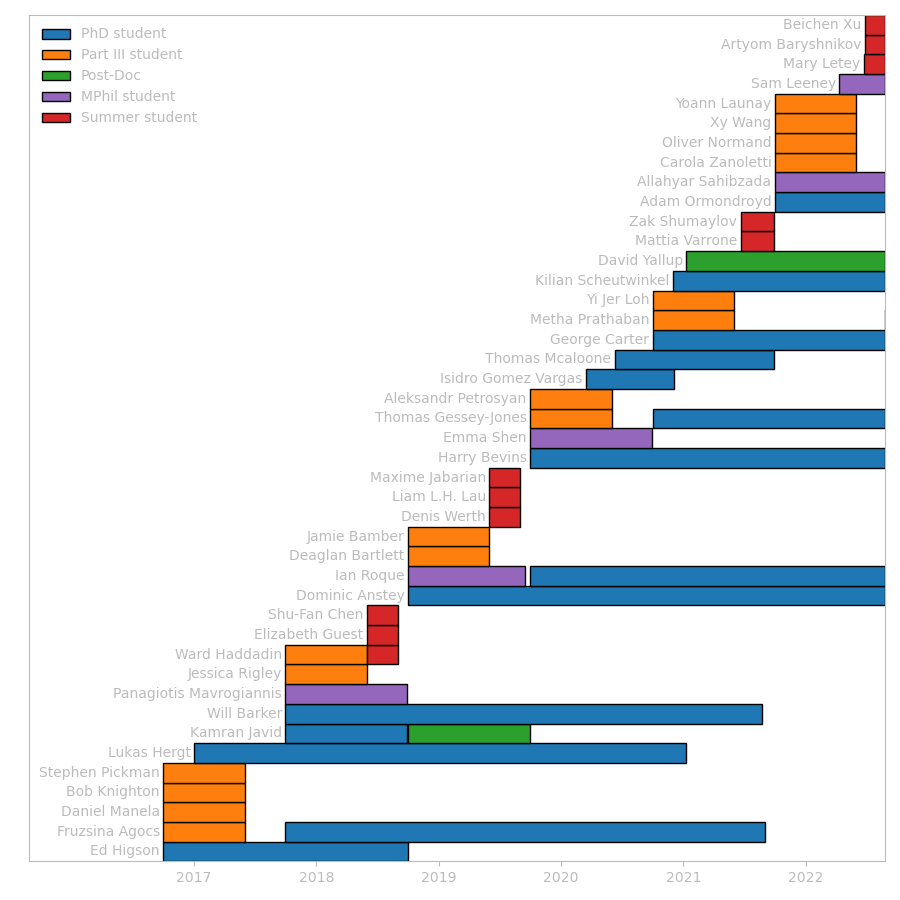
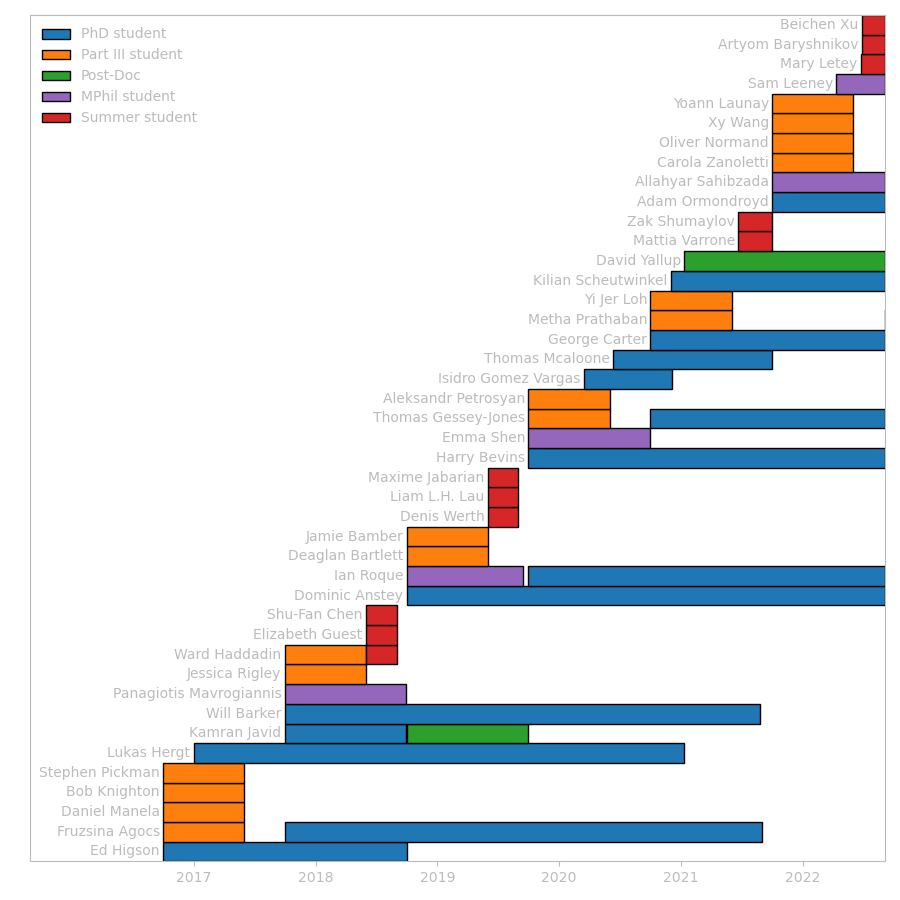
Resized pictures

diff --git a/assets/students/students.html b/assets/students/students.html
@@ -186,7 +186,7 @@
       </p>
     </div>
     <div class="grid-item">
-      <img src="/assets/students/images/originals/ian_roque.png" />
+      <img src="/assets/students/images/ian_roque.jpg" />
     </div>
     <div class="grid-item">
       <p>
@@ -230,7 +230,7 @@
   <h1>MPhil students</h1>
   <div class="grid">
     <div class="grid-item">
-      <img src="/assets/students/images/originals/sam_leeney.jpeg" />
+      <img src="/assets/students/images/sam_leeney.jpg" />
     </div>
     <div class="grid-item">
       <p>
@@ -252,7 +252,7 @@
       </p>
     </div>
     <div class="grid-item">
-      <img src="/assets/students/images/originals/allahyar_sahibzada.jpeg" />
+      <img src="/assets/students/images/allahyar_sahibzada.jpg" />
     </div>
     <div class="grid-item">
       <p>
@@ -484,7 +484,7 @@
       </p>
     </div>
     <div class="grid-item">
-      <img src="/assets/students/images/originals/ed_higson.jpg" />
+      <img src="/assets/students/images/ed_higson.jpg" />
     </div>
     <div class="grid-item">
       <p>
@@ -516,7 +516,7 @@
   <h1>Past MPhil students</h1>
   <div class="grid">
     <div class="grid-item">
-      <img src="/assets/students/images/originals/emma_shen.jpg" />
+      <img src="/assets/students/images/emma_shen.jpg" />
     </div>
     <div class="grid-item">
       <p>
@@ -536,7 +536,7 @@
       </p>
     </div>
     <div class="grid-item">
-      <img src="/assets/students/images/originals/panagiotis_mavrogiannis.jpg" />
+      <img src="/assets/students/images/panagiotis_mavrogiannis.jpg" />
     </div>
     <div class="grid-item">
       <p>
@@ -558,7 +558,7 @@
   <h1>Past Part III students</h1>
   <div class="grid">
     <div class="grid-item">
-      <img src="/assets/students/images/originals/carola_zanoletti.jpg" />
+      <img src="/assets/students/images/carola_zanoletti.jpg" />
     </div>
     <div class="grid-item">
       <p>
@@ -745,7 +745,7 @@
       </p>
     </div>
     <div class="grid-item">
-      <img src="/assets/students/images/originals/ward_haddadin.jpg" />
+      <img src="/assets/students/images/ward_haddadin.jpg" />
     </div>
     <div class="grid-item">
       <p>
@@ -766,7 +766,7 @@
       </p>
     </div>
     <div class="grid-item">
-      <img src="/assets/students/images/originals/daniel_manela.png" />
+      <img src="/assets/students/images/daniel_manela.jpg" />
     </div>
     <div class="grid-item">
       <p>
@@ -791,7 +791,7 @@
       </p>
     </div>
     <div class="grid-item">
-      <img src="/assets/students/images/originals/bob_knighton.JPG" />
+      <img src="/assets/students/images/bob_knighton.jpg" />
     </div>
     <div class="grid-item">
       <p>
